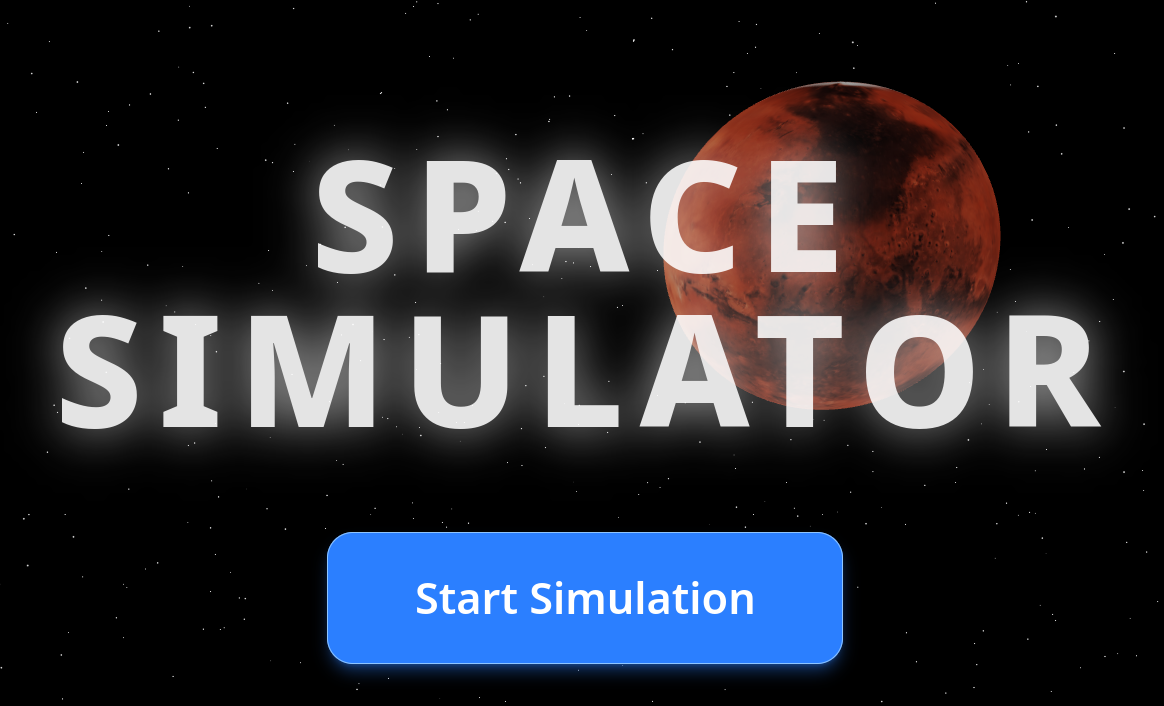
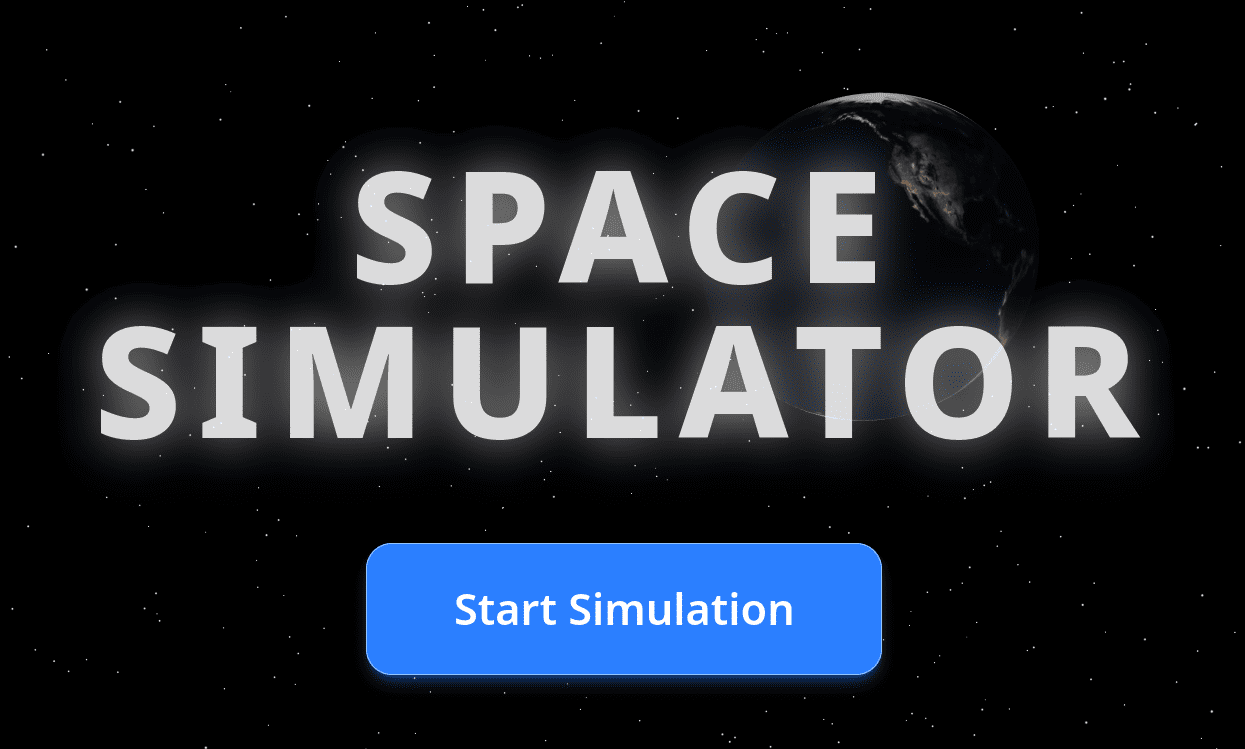
use earth images

diff --git a/index.html b/index.html
@@ -2,7 +2,7 @@
 <html lang="en">
   <head>
     <meta charset="UTF-8" />
-    <link rel="icon" type="image/svg+xml" href="/icon.png" />
+    <link rel="icon" type="image/svg+xml" href="/icon.jpg" />
     <meta name="viewport" content="width=device-width, initial-scale=1.0" />
     <title>Space Simulator</title>
 
